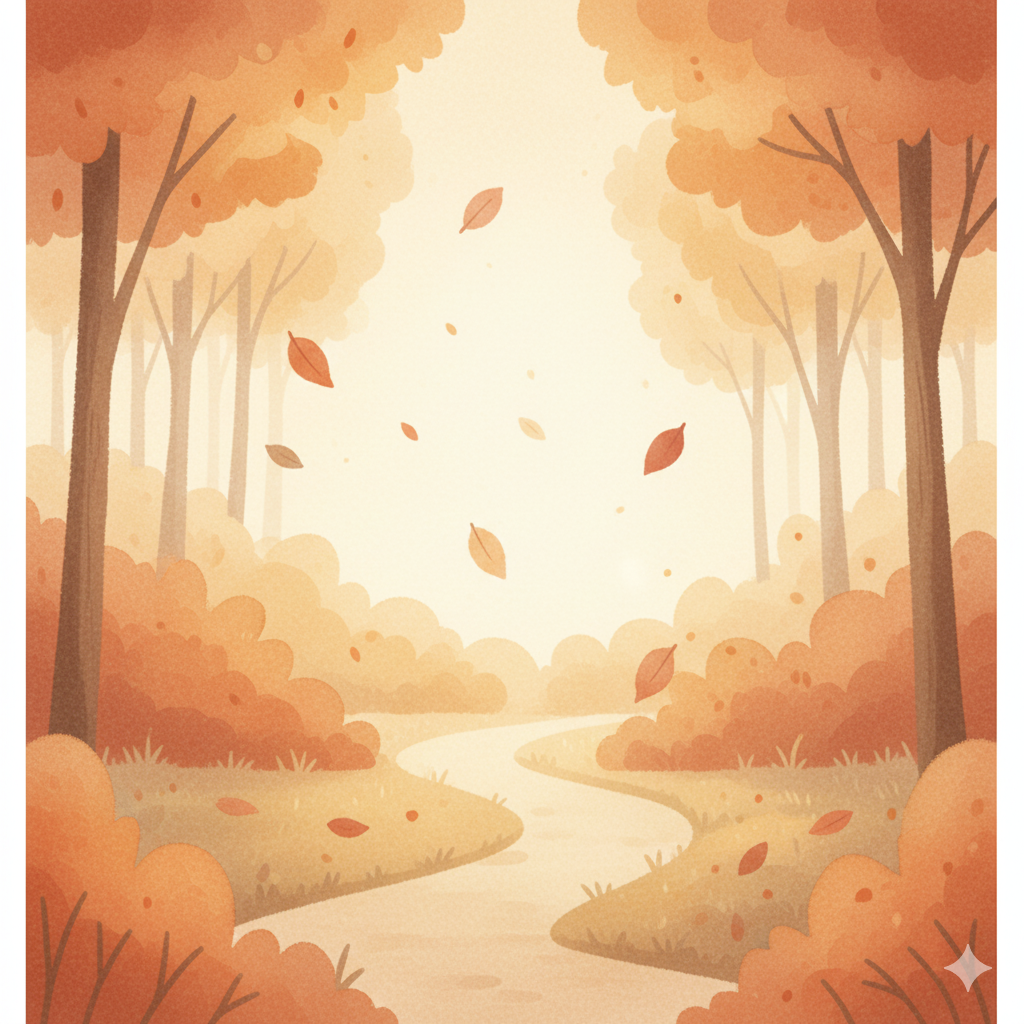
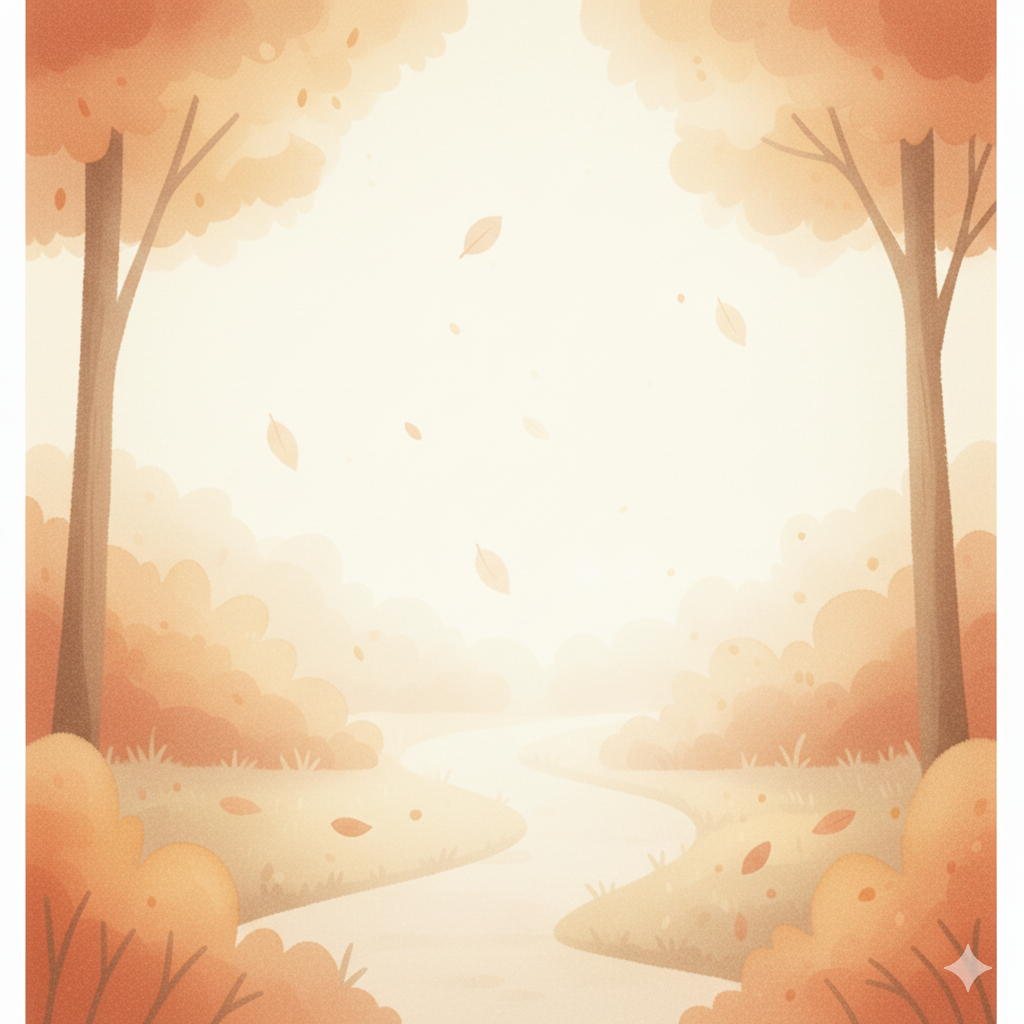
Update profile menu to include color and seasonal theme selection. Refactored theme button implementation for improved readability and maintainability. Updated background images for seasonal themes.

diff --git a/lib/widgets/profile_menu.dart b/lib/widgets/profile_menu.dart
@@ -63,9 +63,25 @@ class _ProfileMenuState extends State<ProfileMenu> {
   }
 
   void _showThemeSelector() {
+    final colorThemes = [
+      AppTheme.babyBlue,
+      AppTheme.lavender,
+      AppTheme.rosePowder,
+      AppTheme.mint,
+      AppTheme.peach,
+    ];
+    
+    final seasonalThemes = [
+      AppTheme.spring,
+      AppTheme.summer,
+      AppTheme.autumn,
+      AppTheme.winter,
+    ];
+    
     showModalBottomSheet(
       context: context,
       backgroundColor: Colors.transparent,
+      isScrollControlled: true,
       builder: (context) => Container(
         decoration: BoxDecoration(
           color: Theme.of(context).scaffoldBackgroundColor,
@@ -80,62 +96,108 @@ class _ProfileMenuState extends State<ProfileMenu> {
               'Choisir un thème',
               style: Theme.of(context).textTheme.titleLarge,
             ),
-            const SizedBox(height: 20),
+            const SizedBox(height: 24),
+            // Color themes section
+            Text(
+              'Couleurs',
+              style: Theme.of(context).textTheme.titleMedium?.copyWith(
+                fontWeight: FontWeight.w600,
+                color: Theme.of(context).colorScheme.onSurface.withValues(alpha: 0.7),
+              ),
+            ),
+            const SizedBox(height: 12),
             Wrap(
               spacing: 16,
-              runSpacing: 16,
-              children: AppTheme.values.map((theme) {
-                final config = ThemeConfig.themes[theme]!;
-                final isSelected = widget.currentTheme == theme;
-                
-                return GestureDetector(
-                  onTap: () {
-                    widget.onThemeChanged(theme);
-                    Navigator.pop(context);
-                  },
-                  child: Container(
-                    width: 80,
-                    height: 80,
-                    decoration: BoxDecoration(
-                      gradient: LinearGradient(
-                        begin: Alignment.topLeft,
-                        end: Alignment.bottomRight,
-                        colors: [
-                          config.primary,
-                          config.secondary,
-                        ],
-                      ),
-                      borderRadius: BorderRadius.circular(20),
-                      border: Border.all(
-                        color: isSelected
-                            ? config.primary
-                            : Colors.transparent,
-                        width: isSelected ? 3 : 0,
-                      ),
-                      boxShadow: isSelected
-                          ? [
-                              BoxShadow(
-                                color: config.primary.withValues(alpha: 0.4),
-                                blurRadius: 8,
-                                offset: const Offset(0, 2),
-                              ),
-                            ]
-                          : null,
-                    ),
-                    child: isSelected
-                        ? const Icon(
-                            Icons.check,
-                            color: Colors.white,
-                            size: 32,
-                          )
-                        : null,
-                  ),
-                );
+              runSpacing: 24,
+              children: colorThemes.map((theme) {
+                return _buildThemeButton(theme);
+              }).toList(),
+            ),
+            const SizedBox(height: 32),
+            // Seasonal themes section
+            Text(
+              'Saisons',
+              style: Theme.of(context).textTheme.titleMedium?.copyWith(
+                fontWeight: FontWeight.w600,
+                color: Theme.of(context).colorScheme.onSurface.withValues(alpha: 0.7),
+              ),
+            ),
+            const SizedBox(height: 12),
+            Wrap(
+              spacing: 16,
+              runSpacing: 24,
+              children: seasonalThemes.map((theme) {
+                return _buildThemeButton(theme);
               }).toList(),
             ),
             const SizedBox(height: 20),
           ],
         ),
+      ),
+    );
+  }
+  
+  Widget _buildThemeButton(AppTheme appTheme) {
+    final config = ThemeConfig.themes[appTheme]!;
+    final isSelected = widget.currentTheme == appTheme;
+    final theme = Theme.of(context);
+    
+    return GestureDetector(
+      onTap: () {
+        widget.onThemeChanged(appTheme);
+        Navigator.pop(context);
+      },
+      child: Column(
+        mainAxisSize: MainAxisSize.min,
+        children: [
+          Container(
+            width: 80,
+            height: 80,
+            decoration: BoxDecoration(
+              gradient: LinearGradient(
+                begin: Alignment.topLeft,
+                end: Alignment.bottomRight,
+                colors: [
+                  config.primary,
+                  config.secondary,
+                ],
+              ),
+              borderRadius: BorderRadius.circular(20),
+              border: Border.all(
+                color: isSelected
+                    ? config.primary
+                    : Colors.transparent,
+                width: isSelected ? 3 : 0,
+              ),
+              boxShadow: isSelected
+                  ? [
+                      BoxShadow(
+                        color: config.primary.withValues(alpha: 0.4),
+                        blurRadius: 8,
+                        offset: const Offset(0, 2),
+                      ),
+                    ]
+                  : null,
+            ),
+            child: isSelected
+                ? const Icon(
+                    Icons.check,
+                    color: Colors.white,
+                    size: 32,
+                  )
+                : null,
+          ),
+          const SizedBox(height: 8),
+          Text(
+            config.name,
+            style: TextStyle(
+              fontSize: 12,
+              fontWeight: isSelected ? FontWeight.w600 : FontWeight.w400,
+              color: theme.colorScheme.onSurface,
+            ),
+            textAlign: TextAlign.center,
+          ),
+        ],
       ),
     );
   }
